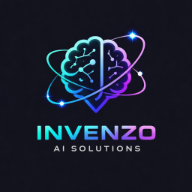
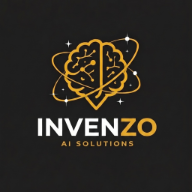
Redesign 4.0

Changed region(s): [[0.1875, 0.1562, 0.8438, 0.8125]]

diff --git a/app/components/Navbar.tsx b/app/components/Navbar.tsx
@@ -5,11 +5,18 @@ import { usePathname } from 'next/navigation'
 import { useState } from 'react'
 import { Menu, X } from 'lucide-react'
 import { ThemeToggle } from './ThemeToggle'
+import { useTheme } from '@/app/providers/ThemeProvider'
 import { useScrollSpy } from './ScrollSpy'
 import { homepageSections, scrollToHomepageSection } from './sectionNavigation'
 
 export default function Navbar() {
   const [isOpen, setIsOpen] = useState(false)
+  const { theme } = useTheme()
+
+  const logoSrc =
+    theme === 'light'
+      ? '/logo-light.png'
+      : '/logo-dark.png'
   const pathname = usePathname()
   const activeSection = useScrollSpy()
 
@@ -44,10 +51,11 @@ export default function Navbar() {
 
             <a href="#hero" className="flex items-center gap-3" onClick={(e) => handleSectionClick('hero', e)}>
               <Image
-                src="/logo.png"
+                src={logoSrc}
                 alt="Invenzo Logo"
                 width={40}
                 height={40}
+                className={theme === 'dark' ? 'scale-100' : 'scale-100'}
                 priority
               />
               <span
@@ -133,7 +141,7 @@ export default function Navbar() {
               }}
             >
               <Image
-                src="/logo.png"
+                src={logoSrc}
                 alt="Invenzo Logo"
                 width={36}
                 height={36}
